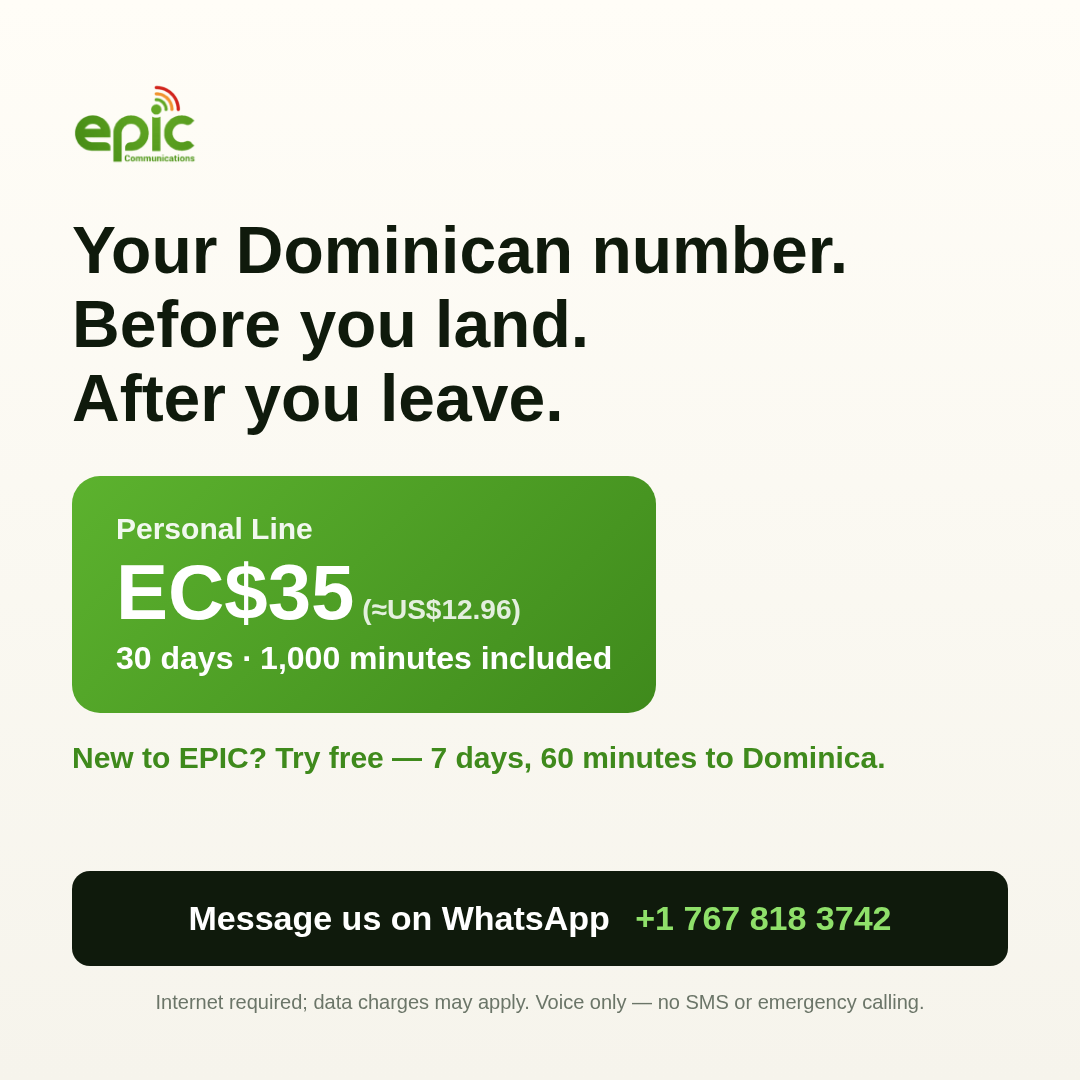
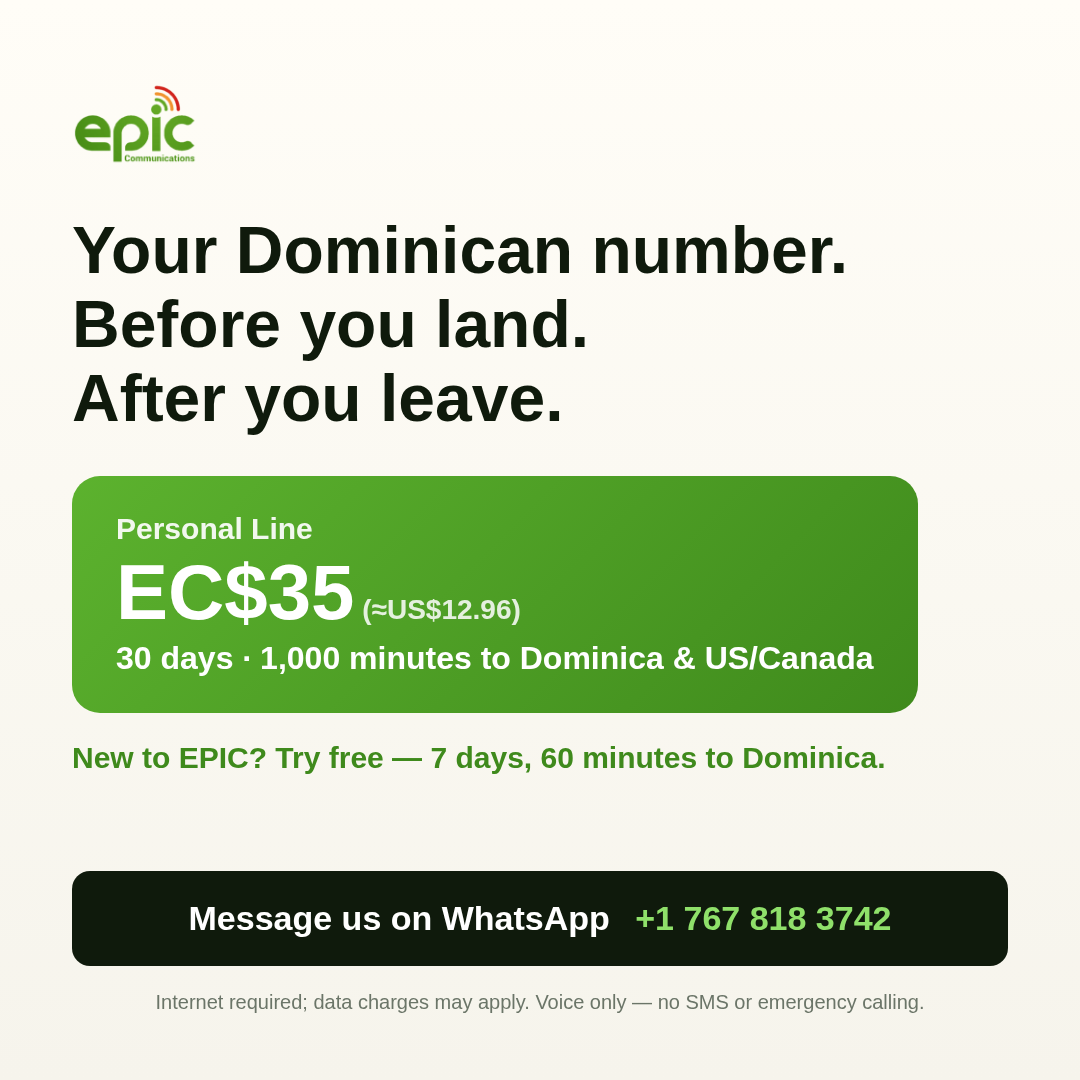
docs(marketing): update included-minutes wording to name Dominica and US/Canada
Owner decision relayed by Lane A: change 30 days / 1,000 minutes included
to 30 days / 1,000 minutes to Dominica and US/Canada, everywhere in the
copy and both creative images. Trial line unchanged (Dominica only, per
Lane A). Re-rendered both PNGs and checked fit: the feed (1080x1080) card
keeps it on one line; the taller story (1080x1920) card wraps it to two
lines but still fits cleanly with normal padding, no clipping or overflow
-- flagging the wrap since it was asked about, not hiding it.

Changed region(s): [[0.4583, 0.4278, 0.8556, 0.6722]]

diff --git a/docs/marketing/2026-09-22-launch-checkpoint/18-diaspora-launch-creative-2026-09-27.md b/docs/marketing/2026-09-22-launch-checkpoint/18-diaspora-launch-creative-2026-09-27.md
@@ -54,7 +54,7 @@ No "unlimited," no "fair use" anywhere — this ladder replaces both.
 
 **Body:** Get your Dominica number before you travel home for Independence. Call ordinary Dominican
 mobiles and landlines — using your own Wi-Fi or mobile data, wherever you are. **Personal Line: EC$35
-(≈US$12.96) for 30 days, 1,000 minutes included.**
+(≈US$12.96) for 30 days, 1,000 minutes to Dominica & US/Canada.**
 
 **Disclosure (visible, not link-only):** Internet required; data charges may apply. Voice only — no SMS or
 emergency calling.
@@ -83,7 +83,7 @@ Isola.")
 
 > Your Dominican number. Before you land. After you leave. 🇩🇲
 > Get set up before you travel home for Independence — call regular Dominican mobiles and landlines on your
-> existing Wi-Fi or data. Personal Line: EC$35 (≈US$12.96)/30 days, 1,000 minutes included.
+> existing Wi-Fi or data. Personal Line: EC$35 (≈US$12.96)/30 days, 1,000 minutes to Dominica & US/Canada.
 > Internet required. Voice only — no SMS or emergency calls.
 > 👉 Message us on WhatsApp: wa.me/17678183742
 
